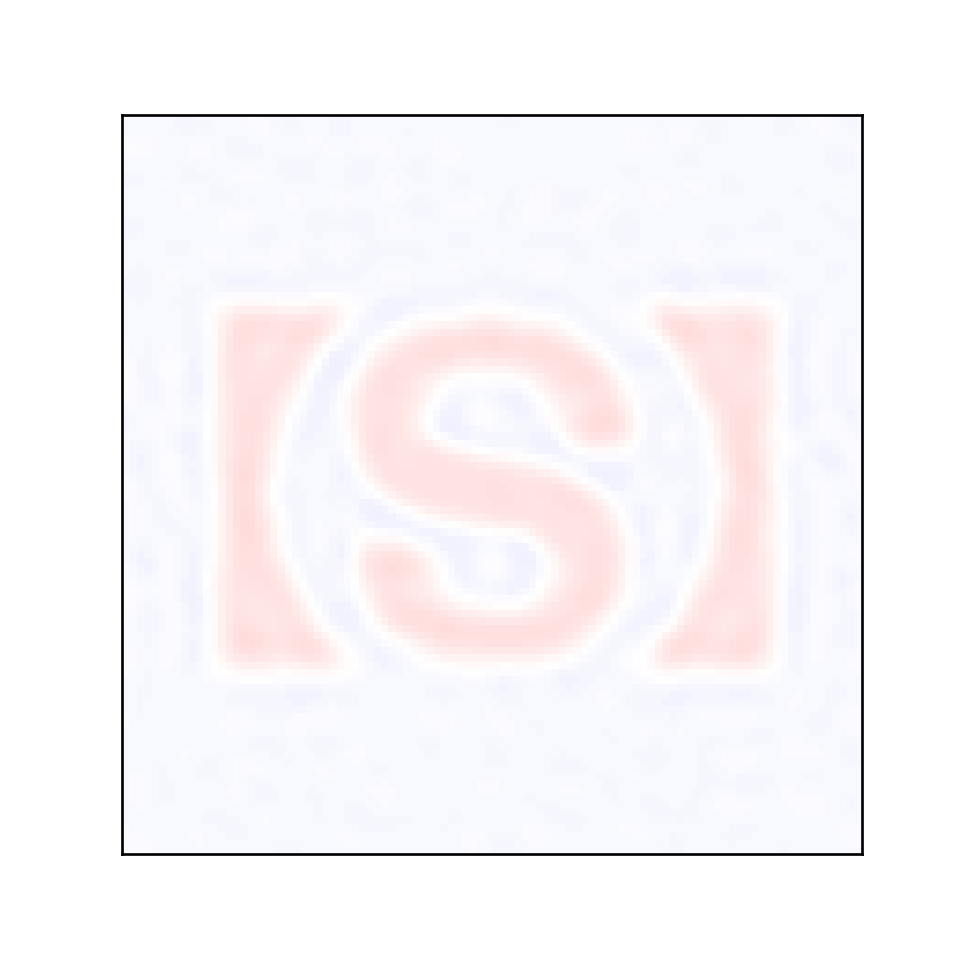
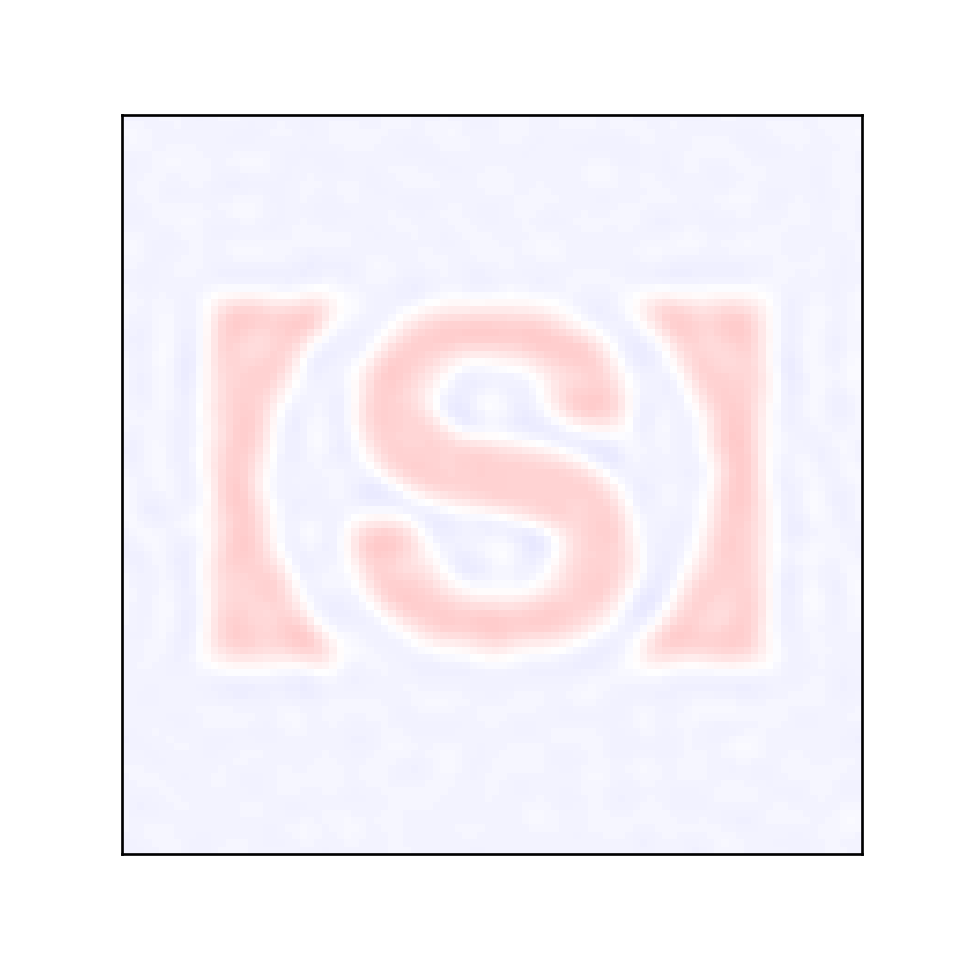
flip target

diff --git a/finitevolume.py b/finitevolume.py
@@ -256,7 +256,7 @@ def main():
   
 
   # Define the target density field from .png image
-  rho_target = jnp.fliplr(jnp.array(img.imread('target.png')[:,:,0],dtype=float))
+  rho_target = jnp.flipud(jnp.array(img.imread('target.png')[:,:,0],dtype=float))
   rho_target = 1.0 + 0.02*(rho_target-0.5)
   # normalize so average density is 1
   rho_target /= jnp.mean(rho_target)
@@ -289,7 +289,7 @@ def main():
     # Make Plot
     plt.cla()
     plt.imshow(rho, cmap=cmap)
-    plt.clim(.85,1.15)
+    plt.clim(0.9,1.1)
     ax = plt.gca()
     ax.invert_yaxis()
     ax.get_xaxis().set_visible(False)
